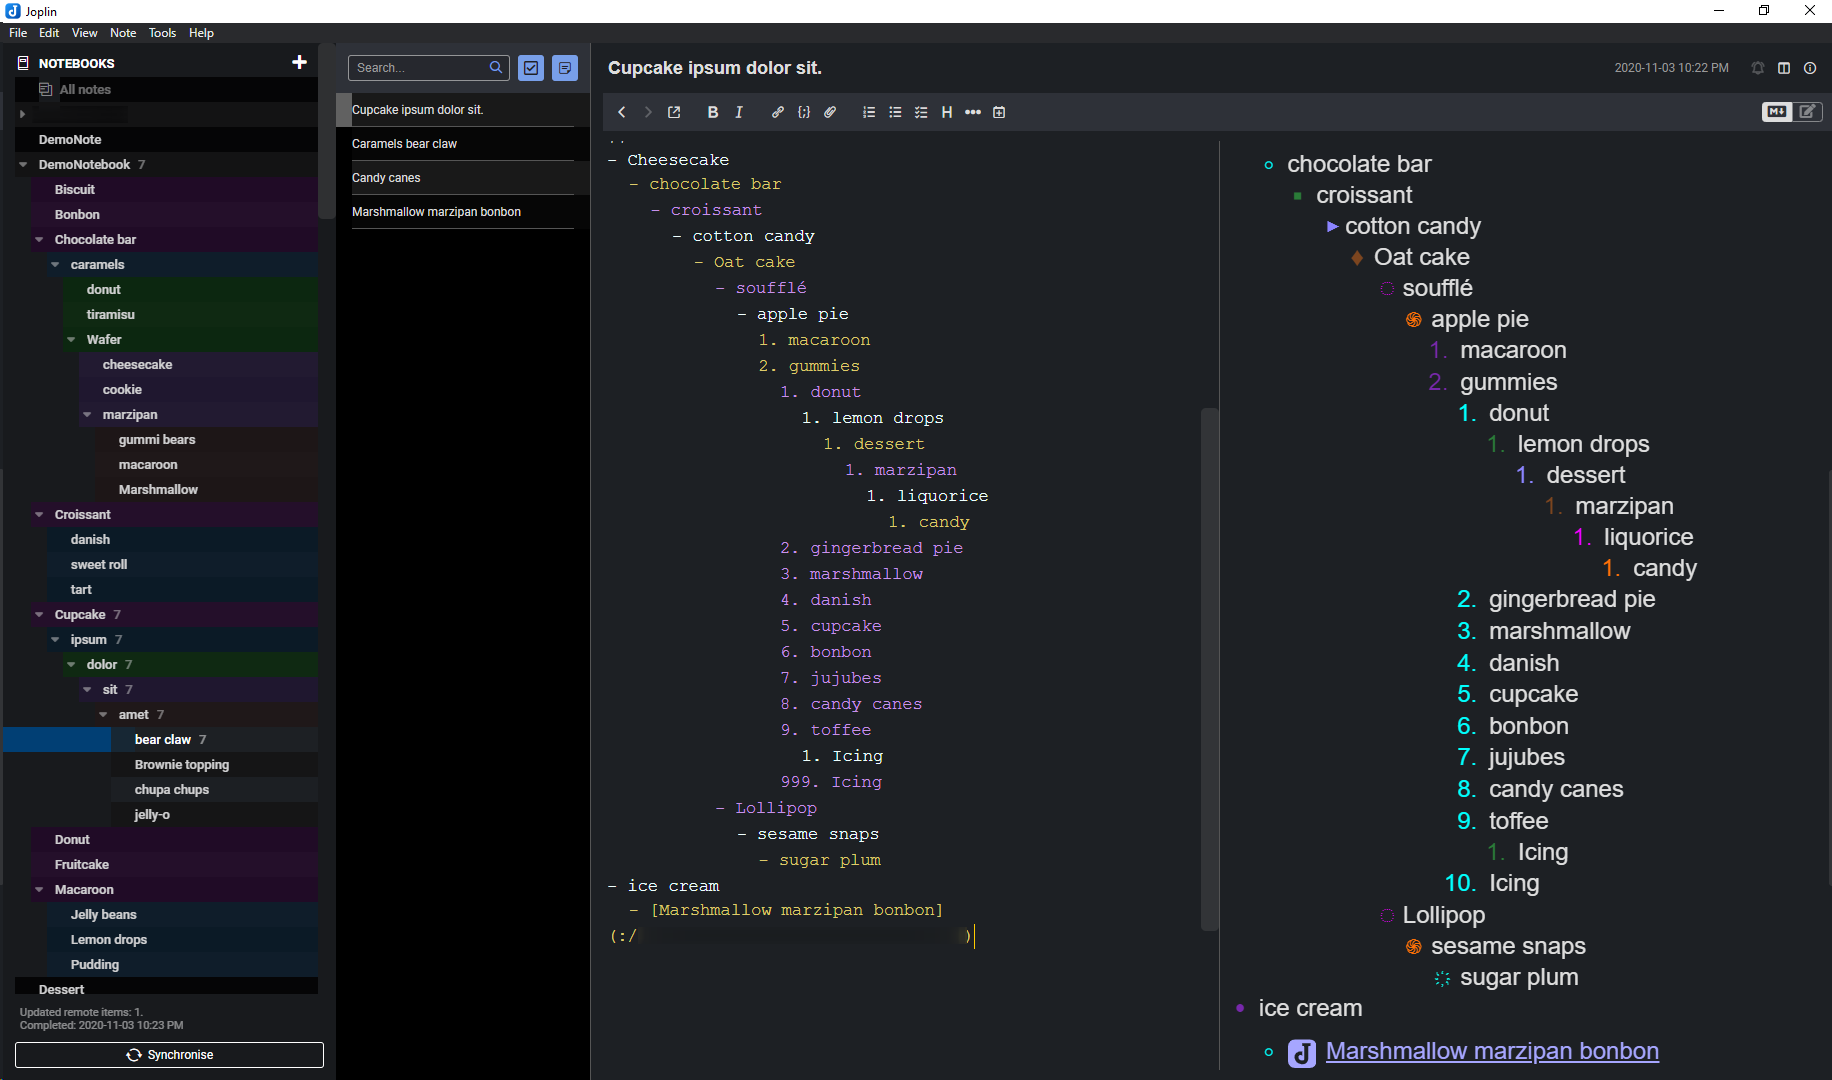
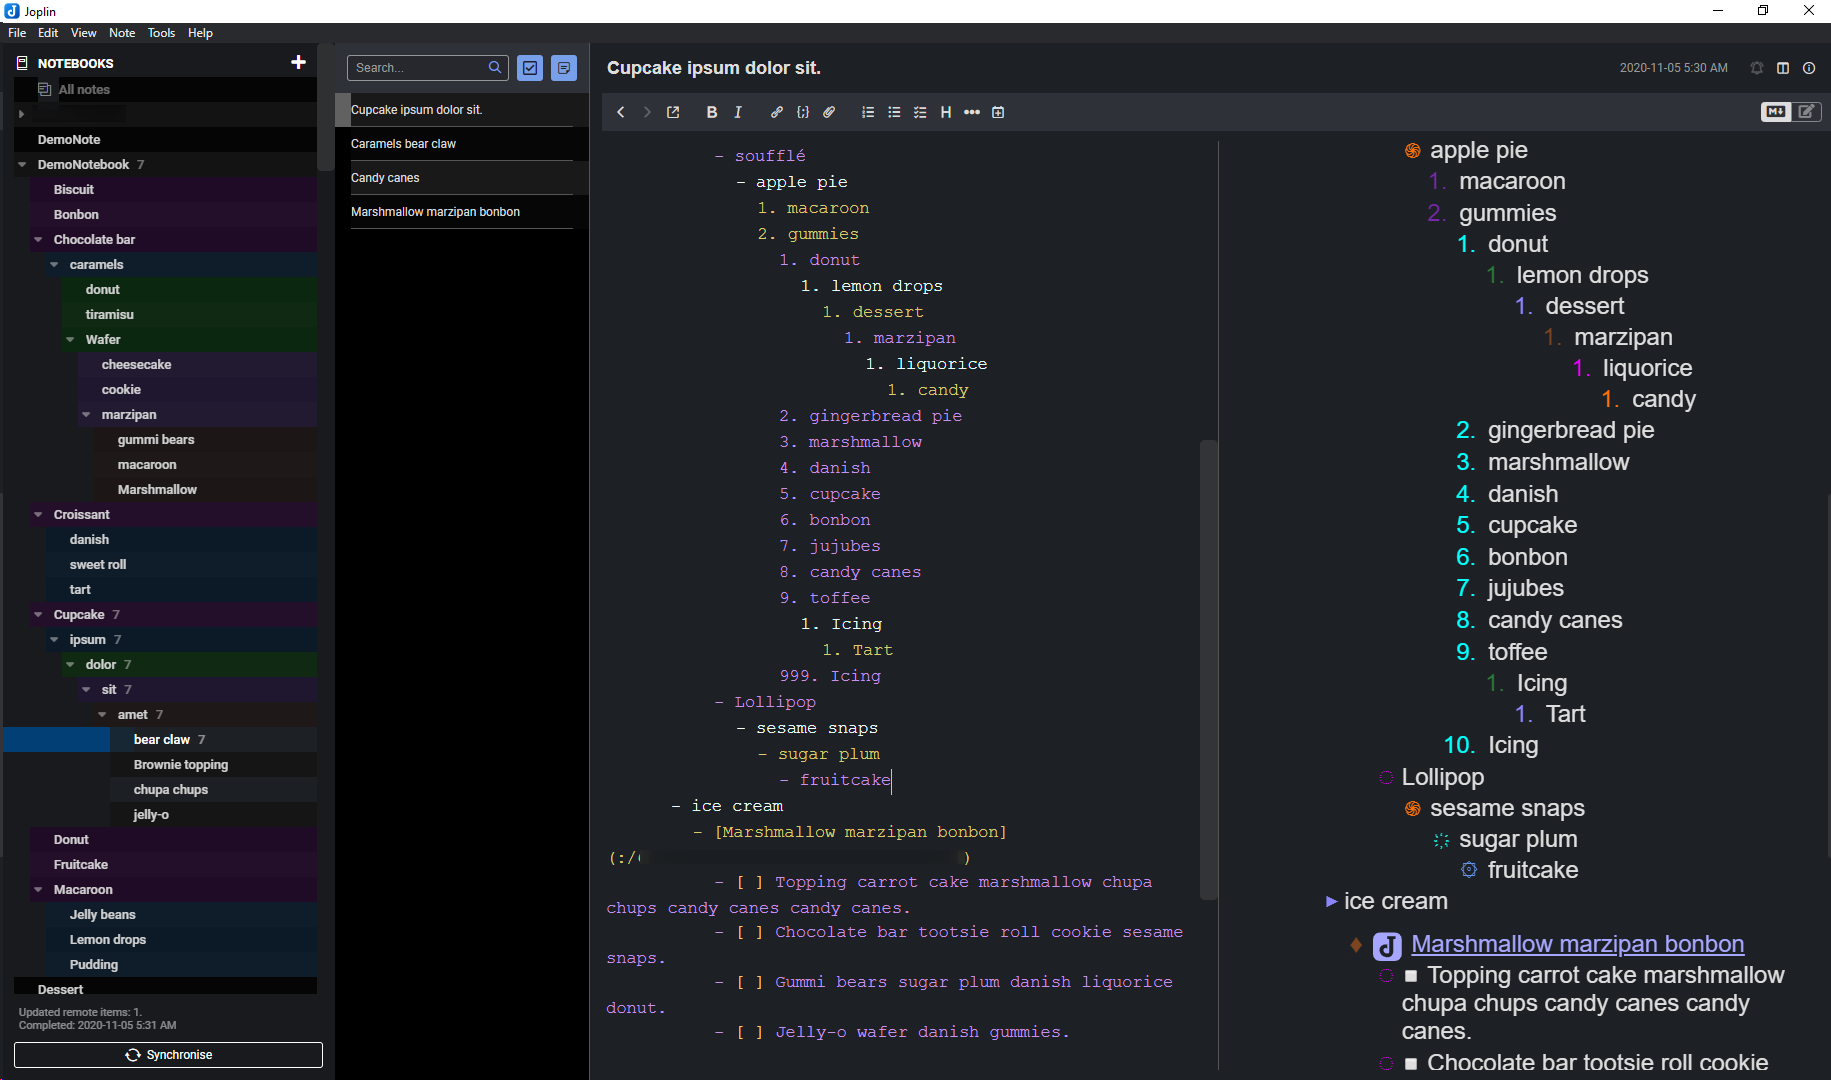
Added inline display of checkboxes within lists.

diff --git a/userstyle.css b/userstyle.css
@@ -166,6 +166,13 @@ ol > li > ol > li > ol > li > ol > li > ol > li > ol > li > ol > li > ol > li > 
 /* end colored ordered list numeric prefixes */
 
 
+/* inline display of checkboxes within lists */
+li.md-checkbox.joplin-checkbox > div.checkbox-wrapper {
+    display: inline;
+    margin-inline-start: 26px;
+}
+
+
 
 /* add horizontal rule to headers */
 h1, h2, h3, h4, h5

diff --git a/README.md b/README.md
@@ -45,6 +45,8 @@ Colorized KaTeX output, ordered, and unordered lists.
 
 Decreased ordered and unordered list indentation.
 
+Displays checkboxes and labels inline within unordered lists.
+
 ![userstyle-color-pallette](img/joplin-style-dark-colors_01-userstyle.png)
 ![userstyle-color-pallette](img/joplin-style-dark-colors_07-userstyle.png)
 ![userstyle-color-pallette](img/joplin-style-dark-colors_08-userstyle.png)
